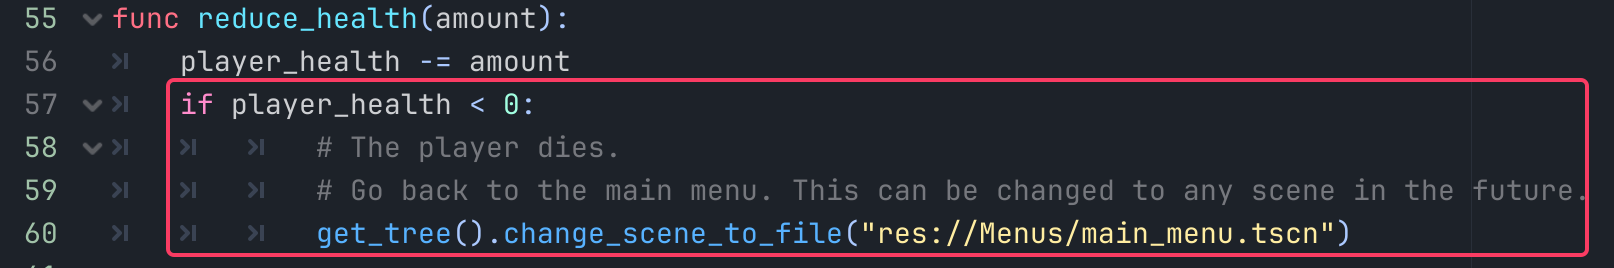
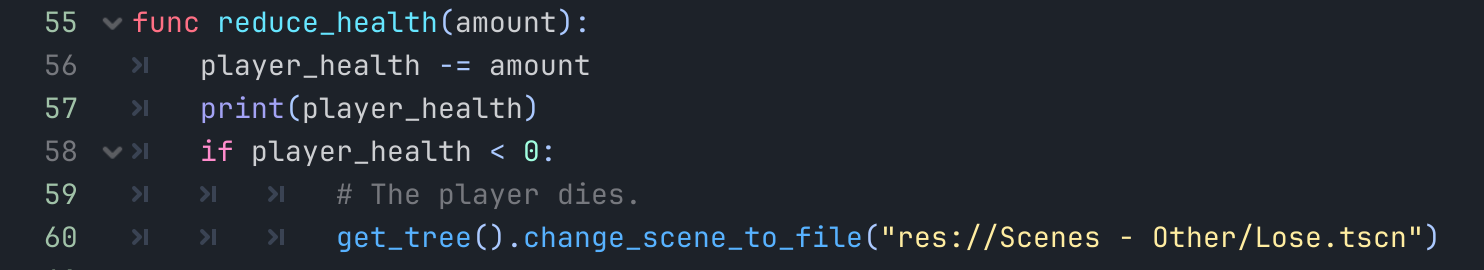
finalise player Health

Changed region(s): [[0.0, 0.1791, 0.9919, 0.9851], [0.0, 0.0299, 0.403, 0.1493], [0.0, 0.9851, 0.031, 1.0]]

diff --git a/ISD/2 - Digital Applications/_topics/Player Health.md b/ISD/2 - Digital Applications/_topics/Player Health.md
@@ -12,60 +12,43 @@ Save the file.
 
 ![[playerHealthVariable.png]]
 
-## Detect Collision
+# Detect Collision
 
-Update the `_physics_process()` function to detect any collections that occur *after* the `move_and_slide()` function call.
+> [!info]- Detect the collision from the enemy.
+> The reason that the collision is detected from the enemy's perspective rather than the Player object is that the collision is only detected when the object is moving. 
+> So, for instance, if the player is standing still, and the enemy collides with it, if the player is checking for a collision it won't be triggered as the player wasn't the one moving.
 
-![[playerHealthCollisionDetection.png]]
+Open the `enemy.gd` script and update the `_physics_process` function to detect collisions with other objects in the game. This is done **after** the `move_and_slide` function call. 
 
+This code checks to see what objects the enemy is colliding with, and if one of those is named "Player", then call the `reduce_health` function on that player (defined below).
+ 
+![[playerHealthEnemyDetectCollision.png]]
+ 
 ```gdscript
 for i in get_slide_collision_count():
-		var collision = get_slide_collision(i)
-		print("I collided with ", collision.get_collider().name)
+	var collision = get_slide_collision(i)
+	#print("I collided with ", collision.get_collider().name)
+	if "Player" in collision.get_collider().name:
+		collision.get_collider().reduce_health(10)
 ```
 
-Run this code, and the debug output will include many lines of text to indicate all the objects that the Player is colliding with.
+Finally, once the Enemy collides with the player and reduces health, you would most likely want the enemy to die so it doesn't continue to reduce health. Add a `queue_free()` to the code.
 
-![[playerHealthCollisionOutput.png]]
+![[playerHealthQueueFree.png]]
 
-This output is simply indicating the name of the node in the hierarchy that the Player is colliding with.
+Save the script.
 
-![[playerHealthEnemyName.png]]
+# Lose Scene
 
-### Detect Enemy
-There are different ways to proceed from here. The two options covered here are:
-- Using the objects name
-- Using the objects group
+If not already done, create a new scene and save it as `Lose.tscn`. This scene will be loaded if the player has lost, or in this example, run out of health.
 
+![[playerHealthLoseScene.png]]
 
-#### Option 1 - Using the name
-
-he code could check the name of the object detected to see if the word "Enemy" is in the name and then act on it. This would work for enemies named "Enemy1", "Enemy2", "BossEnemy" etc. however is limited in that it will only work with objects with Enemy in the name. So, it wouldn't work for a force field called "Forcefield" even if you want the same action to occur.
-
-The code for this option would be:
-
-![[playerHealthDetectEnemyName.png]]
-
-```gdscript
-if "Enemy" in collision.get_collider().name:
-	player_health -= 10
-```
-
-
-#### Option 2 - Using the group
-
-> [!note] This option is more flexible than the first.
-> This approach focuses on the objects *group* rather than the name. This allows you to have any object reduce health from the player instead of ones with "Enemy" in the name.
-
-![[playerHealthDetectEnemyGroup.png]]
-
-```gdscript
-if collision.get_collider().is_in_group("enemy"):
-	player_health -= 10
-```
+Design the scene in whichever way you wish, just ensure there is a way for the user to return to the main menu.
 
 # Reduce Health function
 
+Open `Player.gd`.
 To standardise the process for removing health from the player, create a new function to handle the steps. Call the function similar to this: `reduce_health(10)`
 
 ![[playerHealthReduceHealthFunction.png]]
@@ -88,58 +71,6 @@ if player_health < 0:
 	get_tree().change_scene_to_file("res://Menus/main_menu.tscn")
 ```
 
-# Update Enemy
-
-Open `Enemy.tscn` to edit the Enemy scene, adding an `Area` node as a child of the root node. Add a CollisionShape node a child of that one.
-
-![Screen Shot 2022-09-12 at 8.56.53 pm.png](https://s3-us-west-2.amazonaws.com/secure.notion-static.com/b3dc548e-f7df-4d10-94d4-1bde0fdaf283/Screen_Shot_2022-09-12_at_8.56.53_pm.png)
-
-Select `CollisionShape` and change the shape attribute to a `CapsuleShape`.
-
-![Screen Shot 2022-09-12 at 8.58.22 pm.png](https://s3-us-west-2.amazonaws.com/secure.notion-static.com/3d87ab97-b394-4933-b508-10f79a7dc2f2/Screen_Shot_2022-09-12_at_8.58.22_pm.png)
-
-Select Area in the hierarchy, change to the Node tab, and double click on `body_entered()` in the list of signals.
-
-![Screen Shot 2022-09-12 at 8.59.56 pm.png](https://s3-us-west-2.amazonaws.com/secure.notion-static.com/7cdcbc56-99c1-4b7a-9956-ce390aea80d7/Screen_Shot_2022-09-12_at_8.59.56_pm.png)
-
-Click Connect.
-
-![Screen Shot 2022-09-12 at 9.02.37 pm.png](https://s3-us-west-2.amazonaws.com/secure.notion-static.com/581cf8ab-09d8-4bf9-9803-74be31ef1d34/Screen_Shot_2022-09-12_at_9.02.37_pm.png)
-
-Replace the contents of the function with the code shown.
-
-This code checks first if the object the enemy has collided with is the player, and if so, reduce `player_health` by 10. Then delete the enemy object from the game.
-
-<aside> ‼ The exact value the health gets reduced by can be set to whatever value you chose. Just change the 10.
-
-</aside>
-
-![Screen Shot 2022-09-12 at 9.06.39 pm.png](https://s3-us-west-2.amazonaws.com/secure.notion-static.com/83f6a6dc-3765-4008-9223-3d8abaa4cc9a/Screen_Shot_2022-09-12_at_9.06.39_pm.png)
-
-```python
-if (body.name == "Player"):
-		Global.player_health -= 10
-		queue_free()
-```
-
-Save the Enemy script.
-
-# Lose Scene
-
-If not already done, create a new scene and save it as `Lose.tscn`. This scene will be loaded if the player has lost, or in this example, run out of health.
-
-Design the scene in whichever way you wish, just ensure there is a way for the user to return to the main menu.
-
-# Update Player Script
-
-Open the Player script (`Player.gd`) and add the code to the end of the `_process()` function.
-
-![Screen Shot 2022-09-12 at 9.42.29 pm.png](https://s3-us-west-2.amazonaws.com/secure.notion-static.com/335f08cd-d47e-4268-a0f3-b7bbf9e60029/Screen_Shot_2022-09-12_at_9.42.29_pm.png)
-
-```python
-if Global.player_health <= 0:
-		print("Dead")
-		get_tree().change_scene("res://Lose.tscn")
-```
+Save the script.
 
 ![[commonBlocks#Commit & Push]]
